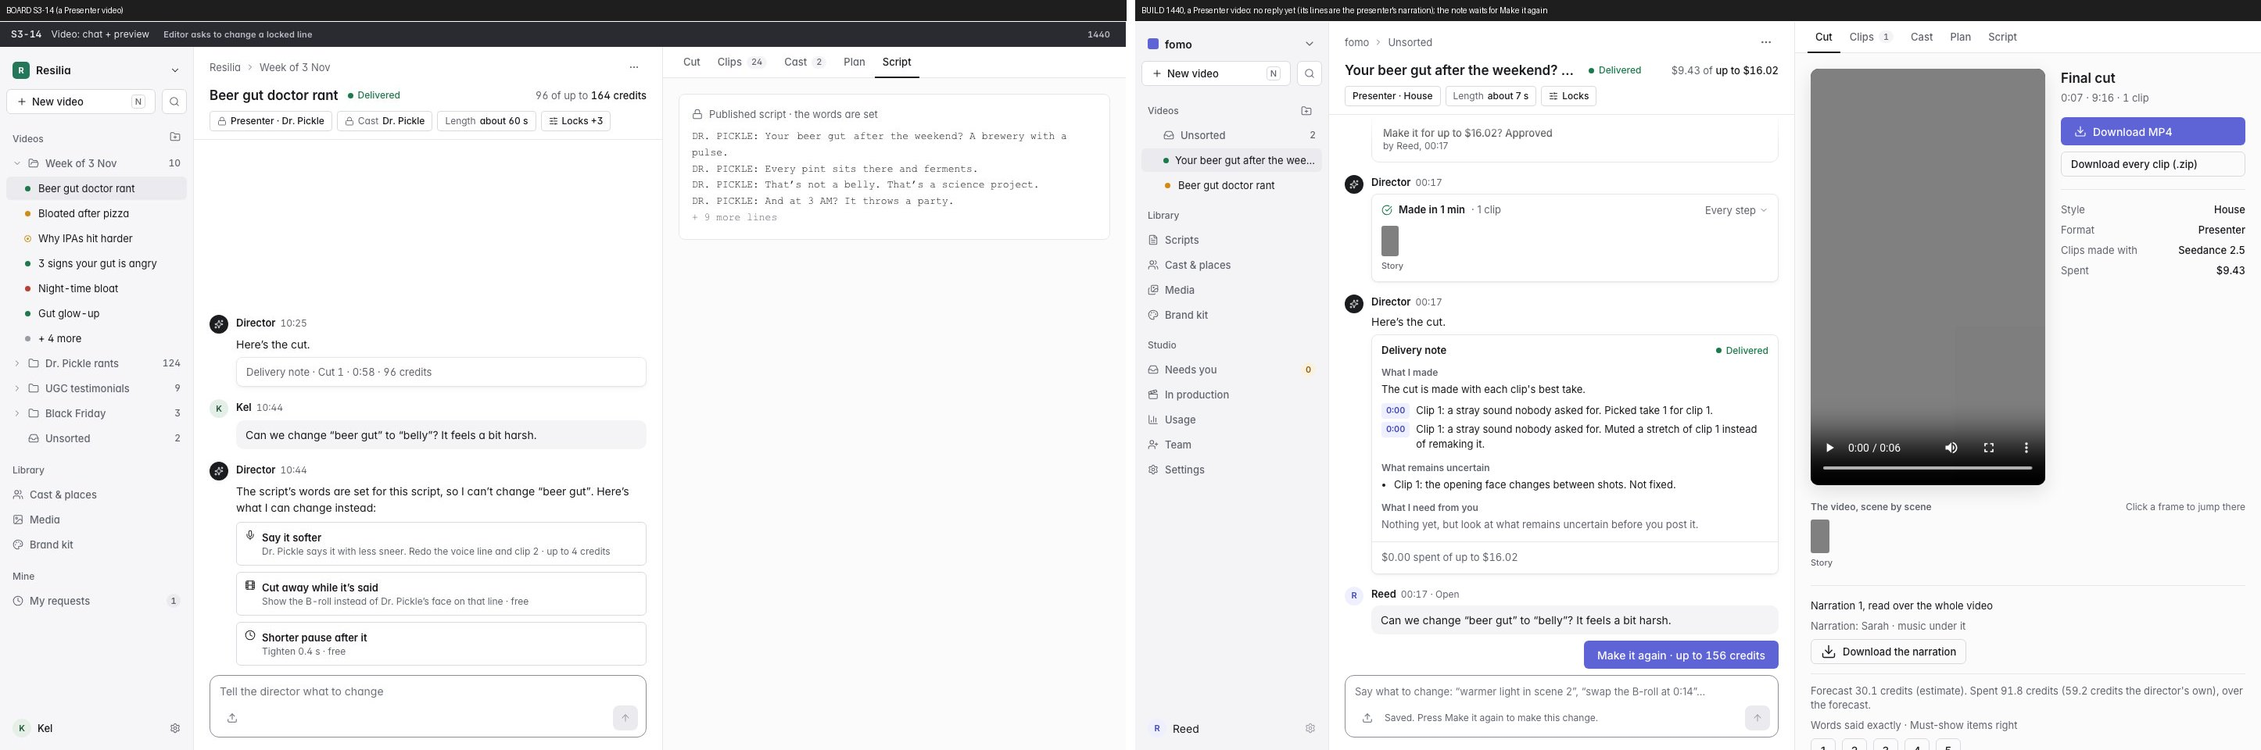
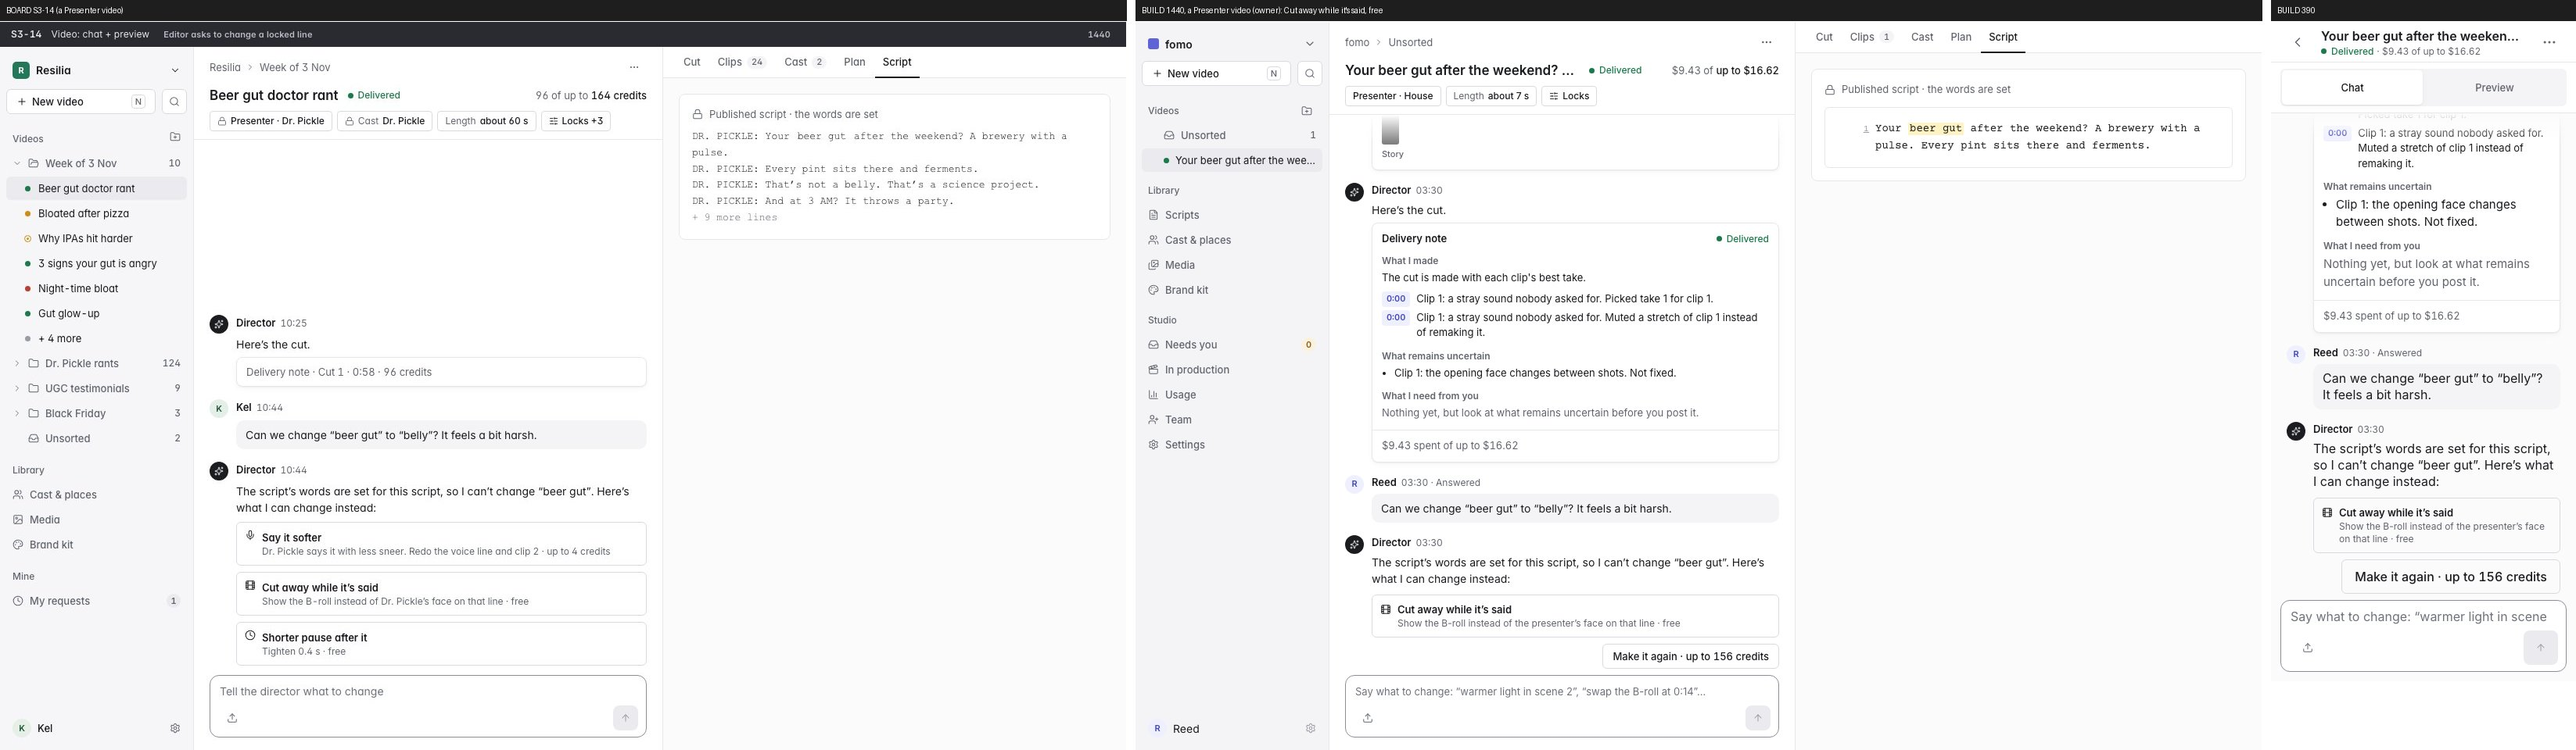
Locked line: Cut away while it's said and Shorter pause after it, free, through the cut editor (S3-14)
The two free choices board S3-14 draws, through #1299's own edits, offered only where they go
through (tried and taken back first):
- "Cut away while it's said": in a video with a presenter over the B-roll, the presenter is
  hidden over the line that says the words, so the B-roll shows.
- "Shorter pause after it" ("Tighten N s"): in a dialogue video, the clip that says them is
  trimmed to just after its line's last word. A narration's or song's pauses are in its audio.
A press makes the edit (the person's, with Undo in the cut editor), worked out again from where
the words are said now, then the next cut ("Done. Making Cut N with it."). Free, kept on the card.

QA notes on #1361: only tone words after a word change mark a note answered (picture and sound
verdicts stay for the director); a gone take's card says only that; a choice pressed again
gives its real reason.

diff --git a/web/src/videos/videopage.test.tsx b/web/src/videos/videopage.test.tsx
@@ -860,3 +860,14 @@ test("S3-14: a take nobody watched offers its free one-click press: use it and m
   await userEvent.click(await screen.findByRole("button", { name: "Use take 3 and make the cut · free" }));
   await vi.waitFor(() => expect(calls.find((c) => c.key === "POST /asks/12/answer")?.body).toEqual({ how: "instead", choice: "A", option: "use" }));
 });
+
+test("S3-14 on a Presenter video: Cut away while it's said is free, and its press makes it", async () => {
+  setViewport(1440);
+  const away = { key: "A", title: "Cut away while it’s said", why: "Show the B-roll instead of Dr. Pickle’s face on that line", do: "cut_away", price: null, made: "", said: "", cannot: "", then: "" };
+  const calls = server(editor, null, run({ status: "delivered", thread: [item("a12", "move", "Director", "…", null, later, { kind: "ask", ask_id: 12 })] }), { ...cards(instead({ choices: [away] })), "POST /asks/12/answer": [200, instead({ choices: [{ ...away, made: "done", said: "Done. Making Cut 2 with it." }], can: [] })] });
+  renderApp("/b/1/videos/50");
+  const button = await screen.findByRole("button", { name: /^Cut away while it’s said/ });
+  expect(button).toHaveTextContent("Show the B-roll instead of Dr. Pickle’s face on that line · free");
+  await userEvent.click(button);
+  await vi.waitFor(() => expect(calls.find((c) => c.key === "POST /asks/12/answer")?.body).toEqual({ how: "instead", choice: "A" }));
+});

diff --git a/server/app/locked_line.py b/server/app/locked_line.py
@@ -45,9 +45,15 @@ ASKS = (
 POLITE = re.compile(
     r"^(?:(?:can|could|would|will)\s+(?:we|you|i|it\s+be)\b|please\b|maybe\b)\s*", re.I
 )
-REASON = re.compile(  # a bare verdict on those words: "It feels a bit harsh."
+TONE = (
+    "harsh|rude|mean|cringe|cringey|cringy|off|wrong|much|crude|blunt|aggressive|offensive|"
+    "crass|cheesy|insulting|negative|judgy|judgmental|preachy|strong|sharp|cold|weird|"
+    "awkward|snarky|condescending|gross|edgy|unkind|pushy|salesy|forced|cheap"
+)
+REASON = re.compile(  # a bare verdict on the words' tone: "It feels a bit harsh." (never the
+    # picture or the sound: "It's too dark." stays for the director)
     r"^(?:it|that|this)(?:['’]s|\s+(?:is|feels|sounds|reads|seems|comes\s+across))"
-    r"(?:\s+(?:a\s+bit|a\s+little|too|so|quite|kind\s+of|really|very))?\s+[a-z-]+$",
+    rf"(?:\s+(?:a\s+bit|a\s+little|too|so|quite|kind\s+of|really|very))?\s+(?:{TONE})$",
     re.I,
 )
 
@@ -100,7 +106,8 @@ def offer(db: Session, user: User, project: Project, text: str) -> tuple[Ask, bo
         return None
     words, only = found
     shot = _said_in(db, project, words)
-    choices = [c for c in (_softer(db, project, shot),) if c]
+    choices = [c for c in (_softer(db, project, shot), _cut_away(db, user, project, words),
+                           _pause(db, user, project, words)) if c]  # fmt: skip
     if not choices:
         return None
     ask = Ask(workspace_id=project.workspace_id, project_id=project.id, kind=KIND,
@@ -142,6 +149,110 @@ def _softer(db: Session, project: Project, shot: dict | None) -> dict | None:
             "do": "softer", "clip": shot["clip"]}  # fmt: skip
 
 
+# --- In the cut (#1299's edits, free): where the words are said, and what can change there ----
+
+
+class _DryRun(Exception):
+    """Raised inside a savepoint to take back an edit tried only to see that it goes through."""
+
+
+def _goes(db: Session, user: User, project: Project, kind: str, asked: dict) -> bool:
+    """Whether this edit to the cut goes through now (every check the editor's own has: no
+    spoken word cut, a piece no shorter than its least), tried and taken back."""
+    from app import cut, cut_edits
+
+    try:
+        with db.begin_nested():
+            cut_edits.add(db, user, project, kind, asked)
+            raise _DryRun
+    except _DryRun:
+        return True
+    except cut.Refused:
+        return False
+
+
+def _spoken(tl: dict, words: str) -> tuple[float, float, int] | None:
+    """Where the cut says these words: (start, end, the index of their last word), or None."""
+    want = re.findall(r"[a-z0-9']+", _plain(words))
+    heard = [re.sub(r"[^a-z0-9']", "", _plain(w["word"])) for w in tl["words"]]
+    for i in range(len(heard) - len(want) + 1):
+        if want and heard[i : i + len(want)] == want:
+            j = i + len(want) - 1
+            return tl["words"][i]["start"], tl["words"][j]["end"], j
+    return None
+
+
+def _cut_away(db: Session, user: User, project: Project, words: str) -> dict | None:
+    """ "Cut away while it's said": the presenter hidden over the line that says the words, so
+    the B-roll under it shows (free). Only in a video with a presenter laid over the B-roll
+    (a UGC talker is in its own clips: they can't be swapped for B-roll)."""
+    from app import cut
+
+    span = _away_span(db, project, words)
+    if span is None or not _goes(
+        db, user, project, "presenter", {"start": span[0], "end": span[1], "hidden": True}
+    ):
+        return None
+    tl, _ = cut.timeline(db, project)
+    name = tl["presenter"]["name"]
+    name = name[0].lower() + name[1:] if name.startswith("The ") else name  # "the presenter"
+    return {
+        "title": "Cut away while it’s said",
+        "why": f"Show the B-roll instead of {name}’s face on that line",
+        "do": "cut_away",
+    }
+
+
+def _away_span(db: Session, project: Project, words: str) -> tuple[float, float] | None:
+    """The line that says the words, in cut seconds (at least a piece's least)."""
+    from app import cut
+
+    if cut.newest(db, project) is None:
+        return None
+    tl, _ = cut.timeline(db, project)
+    said = _spoken(tl, words) if tl["presenter"] else None
+    if said is None:
+        return None
+    a, b, _ = said
+    line = next(((s, e) for s, e in tl.get("lines") or [] if s <= a < e), None)
+    a, b = line if line else (a, b)
+    return round(a, 2), round(max(b, a + cut.MIN), 2)
+
+
+def _pause(db: Session, user: User, project: Project, words: str) -> dict | None:
+    """ "Shorter pause after it": in a dialogue video, the clip that says these words (its
+    line) trimmed to just after its last spoken word ("Tighten 0.4 s", free). A narration's or
+    a song's own pauses are in its audio, so they can't be tightened here."""
+    edit = _pause_edit(db, project, words)
+    if edit is None or not _goes(db, user, project, "trim", edit[0]):
+        return None
+    return {"title": "Shorter pause after it", "why": f"Tighten {edit[1]:g} s", "do": "pause"}
+
+
+PAUSE = 0.2  # seconds: a pause shorter than this after the words is left as it is
+
+
+def _pause_edit(db: Session, project: Project, words: str) -> tuple[dict, float] | None:
+    """The trim that tightens the pause after the words, and by how much; None if none."""
+    from app import cut
+
+    if cut.newest(db, project) is None:
+        return None
+    tl, _ = cut.timeline(db, project)
+    said = _spoken(tl, words) if tl["mode"] == "takes" else None
+    if said is None:
+        return None
+    _, end, _ = said
+    piece = next((p for p in tl["pieces"] if p["start"] <= end <= p["end"]), None)
+    if piece is None:
+        return None
+    end = max(w["end"] for w in tl["words"] if piece["start"] <= w["start"] < piece["end"])
+    gap = round(piece["end"] - end - cut.TAIL, 1)  # after its line: its last spoken word
+    if gap < PAUSE:
+        return None
+    return {"piece": piece["id"], "end": round(end + cut.TAIL, 2)}, gap
+
+
 def _voiced(db: Session, project: Project, clip: str) -> bool:
     """The line is said outside the clip's take: a song or narrated video (a presenter's
     narration too), or a UGC talker's clip."""
@@ -178,6 +289,10 @@ def cannot(db: Session, project: Project, choice: dict) -> str:
         if row.picked_take_id is None or _voiced(db, project, row.clip_id):
             return f"Clip {n} has no take of its own in the cut now."
         return ""
+    if choice.get("do") in ("cut_away", "pause"):
+        from app import cut
+
+        return "" if cut.newest(db, project) is not None else "There's no cut yet."
     return "This can't be made here."
 
 
@@ -189,6 +304,8 @@ def price(db: Session, project: Project, choice: dict) -> Decimal | None:
     if choice.get("do") == "softer":
         row = _row(db, project, choice.get("clip") or "")
         return take_credits(db, project, row) if row is not None else None
+    if choice.get("do") in ("cut_away", "pause"):
+        return Decimal(0)  # an edit and the cut made again: free
     return None
 
 
@@ -204,7 +321,7 @@ def made(db: Session, ask: Ask, key: str) -> tuple[str, str, int | None]:
     if "outcome" in mine:
         use = mine.get("use")
         if use and _gone(db, ask, use):  # its take or clip went since (a new plan): no press
-            return "kept", f"{mine['outcome']} {GONE}", None
+            return "kept", GONE, None
         return ("done" if mine.get("cut") else "kept"), mine["outcome"], use
     job = db.get(Job, mine.get("job") or 0)
     if job is None or job.status in (JobStatus.failed, JobStatus.cancelled):
@@ -282,17 +399,19 @@ def choose(db: Session, user: User, ask: Ask, key: str, storage, option=None) ->
     state, said, use = made(db, ask, key)
     if option == "use":
         if use is None:
-            raise HTTPException(409, said if GONE in said else "There's no take to use here.")
+            raise HTTPException(409, GONE if said == GONE else "There's no take to use here.")
         from app import director
 
         if director.active(db, project):
             raise HTTPException(409, RUNNING)
         said, cut = _cut(db, project, db.get(ClipTake, use), storage, user, chosen=True)
         return _outcome(db, ask, key, said, cut=cut)
-    if state:
+    if state in ("held", "making", "watching"):
         raise HTTPException(409, "That's already being made.")
     if why := cannot(db, project, found):
         raise HTTPException(409, why)
+    if state:  # made already (done, or kept with what happened): say that, not "being made"
+        raise HTTPException(409, GONE if said == GONE else "That's made already.")
     done = DOES[found["do"]](db, user, project, ask, found, storage)
     from app.db import utcnow
 
@@ -317,7 +436,46 @@ def _say_softer(db: Session, user: User, project: Project, ask: Ask, choice: dic
     return {"job": job.id}
 
 
-DOES = {"softer": _say_softer}  # what each kind of choice does when pressed
+def _edit_the_cut(db: Session, user: User, project: Project, ask: Ask, choice: dict,
+                  storage) -> dict:  # fmt: skip
+    """Cut away, or a shorter pause: the edit (free, the person's, with Undo in the cut editor),
+    worked out again from where the words are said now, then the cut made again."""
+    from app import cut, cut_edits
+
+    if choice["do"] == "cut_away":
+        span = _away_span(db, project, ask.subject)
+        kind, asked = "presenter", (span and {"start": span[0], "end": span[1], "hidden": True})
+    else:
+        edit = _pause_edit(db, project, ask.subject)
+        kind, asked = "trim", (edit and edit[0])
+    if not asked:
+        raise HTTPException(409, "The cut doesn't say those words where it did: make the cut "
+                            "again first, or change it in the cut editor.")  # fmt: skip
+    try:
+        row = cut_edits.add(db, user, project, kind, asked)
+    except cut.Refused as no:
+        db.rollback()
+        raise HTTPException(409, str(no)) from no
+    db.commit()
+    said, made = _make_cut(db, project, user, storage)
+    return {"edit": row.id, "outcome": f"Done. {said}", "cut": made}
+
+
+def _make_cut(db: Session, project: Project, user: User, storage) -> tuple[str, bool]:
+    """The next cut, free (cut.make's own route); or plainly why not."""
+    from app.routes import cut
+
+    request = SimpleNamespace(app=SimpleNamespace(state=SimpleNamespace(storage=storage)))
+    try:
+        made = cut.make(project_id=project.id, request=request, user=user, db=db)
+    except HTTPException as no:
+        db.rollback()
+        return (f"The cut wasn’t made again: {no.detail} Make the cut from the Cut tab once "
+                "that’s done.", False)  # fmt: skip
+    return f"Making Cut {made.making.number if made.making else made.number} with it.", True
+
+
+DOES = {"softer": _say_softer, "cut_away": _edit_the_cut, "pause": _edit_the_cut}  # its press
 
 
 def after(db: Session, job: Job, storage) -> None:

diff --git a/server/tests/test_locked_line.py b/server/tests/test_locked_line.py
@@ -57,7 +57,8 @@ def test_a_note_to_change_the_scripts_words_is_answered_at_once(app, db, owner, 
     assert card["question"] == ("The script’s words are set for this script, so I can’t change "
                                 "“bought the dip”. Here’s what I can change instead:")  # fmt: skip
     assert card["state"] == "offered" and card["can"] == ["instead"]
-    (softer,) = card["choices"]
+    softer, pause = card["choices"]  # as drawn: Say it softer, then what the cut can change
+    assert pause["do"] == "pause"  # (no presenter here to cut away from)
     assert (softer["title"], softer["do"], softer["made"]) == ("Say it softer", "softer", "")
     assert softer["why"] == "Nate says it more softly. Redo the voice line and clip 1"
     row = db.query(ProjectClip).filter_by(project_id=pid, clip_id="c1").one()
@@ -89,7 +90,7 @@ def test_saying_it_softer_makes_a_take_and_once_its_watch_is_clean_the_cut_again
     was = (cut.id, list(cut.take_ids))
     pressed = _press(editor, db, pid)
     choice = pressed["choices"][0]
-    assert choice["made"] == "making" and pressed["can"] == []
+    assert choice["made"] == "making" and pressed["can"] == ["instead"]  # the pause stays
     job = db.query(Job).filter(Job.kind == "video").order_by(Job.id.desc()).first()
     assert job.input[locked_line.FOR] == [card["id"], "A"]
     assert job.credits <= choice["price"]["credits"]  # never past the "up to" it showed
@@ -214,6 +215,7 @@ def test_nothing_is_offered_where_the_clip_doesnt_carry_the_voice(app, db, owner
 
     pid = _delivered(app, db, owner, editor)
     monkeypatch.setattr(director_song, "kind", lambda db, project: "narrated")
+    monkeypatch.setattr(locked_line, "_goes", lambda *a: False)  # nor anything in the cut
     out = editor.post(f"/projects/{pid}/director/messages", json={"text": ASK}).json()
     assert out["unread"] == 1  # it waits for the director, as any note does
     assert not db.query(Ask).filter_by(project_id=pid, kind="instead").count()
@@ -414,10 +416,12 @@ def test_a_take_that_went_since_is_never_offered_or_used(app, db, owner, editor,
     assert editor.get(f"/projects/{pid}/asks").status_code == 200
     card = _card(editor, pid)
     c = card["choices"][0]
-    assert c["then"] == "" and locked_line.GONE in c["said"]
+    assert c["then"] == "" and c["said"] == locked_line.GONE  # its text, not added to
     no = editor.post(f"/asks/{card['id']}/answer",
                      json={"how": "instead", "choice": "A", "option": "use"})  # fmt: skip
-    assert no.status_code == 409 and no.json()["detail"].endswith(locked_line.GONE)
+    assert (no.status_code, no.json()["detail"]) == (409, locked_line.GONE)
+    again = editor.post(f"/asks/{card['id']}/answer", json={"how": "instead", "choice": "A"})
+    assert again.json()["detail"] == "Clip 1 isn't in this video any more."  # its real reason
     bad = editor.post(f"/asks/{card['id']}/answer",
                       json={"how": "instead", "choice": "A", "option": "other"})  # fmt: skip
     assert bad.status_code == 422
@@ -436,3 +440,104 @@ def test_the_cut_isnt_made_over_a_pick_someone_made_since(app, db, owner, editor
     said, cut = locked_line._cut(db, db.get(Project, pid), take, app.state.storage)
     assert not cut and said == ("Made and watched, but clip 1 now uses another take, so the cut "
                                 "stays as it was.")  # fmt: skip
+
+
+# --- In the cut (#1299's edits, free): cut away while it's said, a shorter pause after it ----
+
+
+def _presenter(app, db, owner, monkeypatch) -> int:
+    """A delivered Presenter video (board S3-14's own format), made by the owner."""
+    from app.models.freestyles import Freestyle
+    from tests.test_freestyle_dialogue import _run as _fs_run
+    from tests.test_freestyle_song import NARRATION, _sent
+
+    monkeypatch.setattr("app.director_song._on", lambda db, draft: True)
+    monkeypatch.setattr(app.state.settings, "kie_suno", True)
+    fs = _sent(owner, "presenter", NARRATION)
+    _fs_run(app, db, ticks=160)
+    pid = db.get(Freestyle, fs["id"]).project_id
+    assert owner.get(f"/projects/{pid}/director").json()["status"] == "delivered"
+    return pid
+
+
+ON_A_PRESENTER = "Can we change “the wait” to “the pause”? It feels a bit harsh."
+
+
+def test_on_a_presenter_video_it_offers_cutting_away_free_and_makes_the_cut(
+    app, db, owner, monkeypatch
+):
+    from app import cut
+    from app.models.clips import CutEdit
+
+    pid = _presenter(app, db, owner, monkeypatch)
+    out = owner.post(f"/projects/{pid}/director/messages", json={"text": ON_A_PRESENTER}).json()
+    assert out["unread"] == 0
+    card = _card(owner, pid)
+    (away,) = card["choices"]  # no Say it softer: the presenter's narration carries the voice
+    assert (away["title"], away["do"], away["price"]) == ("Cut away while it’s said", "cut_away",
+                                                          None)  # free  # fmt: skip
+    assert away["why"].startswith("Show the B-roll instead of ") and away["why"].endswith(
+        "’s face on that line")  # fmt: skip
+    jobs = db.query(Job).filter(Job.kind != cut.STEP).count()
+    pressed = owner.post(f"/asks/{card['id']}/answer", json={"how": "instead", "choice": "A"})
+    assert pressed.status_code == 200, pressed.text
+    done = pressed.json()["choices"][0]
+    assert done["made"] == "done" and done["said"].startswith("Done. Making Cut ")
+    assert done["said"].endswith(" with it.")
+    edit = db.query(CutEdit).filter_by(project_id=pid).one()
+    assert (edit.kind, edit.data["hidden"], edit.director) == ("presenter", True, False)
+    tl, _ = cut.timeline(db, db.get(Project, pid))
+    said = locked_line._spoken(tl, "the wait")
+    assert edit.data["start"] <= said[0] and said[1] <= edit.data["end"]  # over that line
+    assert db.query(Job).filter(Job.kind != cut.STEP).count() == jobs  # nothing paid
+    assert cut.making(db, db.get(Project, pid)) is not None  # the next cut is being made
+    again = owner.post(f"/asks/{card['id']}/answer", json={"how": "instead", "choice": "A"})
+    assert (again.status_code, again.json()["detail"]) == (409, "That's made already.")
+
+
+def test_a_shorter_pause_after_it_trims_the_clip_to_its_last_word_free(app, db, owner, editor):
+    from app import cut
+    from app.models.clips import CutEdit
+
+    pid = _delivered(app, db, owner, editor)
+    editor.post(f"/projects/{pid}/director/messages", json={"text": ASK})
+    card = _card(editor, pid)
+    pause = next(c for c in card["choices"] if c["do"] == "pause")
+    assert pause["title"] == "Shorter pause after it" and pause["price"] is None
+    gap = float(pause["why"].removeprefix("Tighten ").removesuffix(" s"))
+    assert gap >= locked_line.PAUSE
+    pressed = editor.post(f"/asks/{card['id']}/answer",
+                          json={"how": "instead", "choice": pause["key"]})  # fmt: skip
+    assert pressed.status_code == 200, pressed.text
+    edit = db.query(CutEdit).filter_by(project_id=pid).one()
+    assert edit.kind == "trim"
+    tl, _ = cut.timeline(db, db.get(Project, pid))
+    piece = next(p for p in tl["pieces"] if p["id"] == edit.data["piece"])
+    end = max(w["end"] for w in tl["words"] if piece["start"] <= w["start"] < piece["end"])
+    assert abs(piece["end"] - (end + cut.TAIL)) < 0.05  # just after the last word, none cut
+    softer = next(c for c in _card(editor, pid)["choices"] if c["do"] == "softer")
+    assert softer["made"] == "" and softer["price"]  # the other choices stay pressable
+
+
+def test_a_cut_choice_that_cant_be_made_isnt_offered(app, db, owner, editor, monkeypatch):
+    pid = _delivered(app, db, owner, editor)
+    monkeypatch.setattr(locked_line, "_goes", lambda *a: False)  # the cut editor refuses it
+    editor.post(f"/projects/{pid}/director/messages", json={"text": ASK})
+    assert [c["do"] for c in _card(editor, pid)["choices"]] == ["softer"]
+
+
+def test_only_tone_words_mark_a_note_answered():
+    from tests.test_script_library import SCRIPT
+
+    for other in (
+        "It's too dark.",
+        "This is blurry.",
+        "It's too loud.",
+        "It's too long.",
+        "It is slow.",
+    ):  # picture or sound: the director's (QA on d0c187c8)
+        said = f"Change “bought the dip” to “bought more”. {other}"
+        assert locked_line.asked(said, SCRIPT) == ("bought the dip", False), other
+    for tone in ("It's too harsh.", "It sounds rude.", "That's a bit much.", "It feels off."):
+        said = f"Change “bought the dip” to “bought more”. {tone}"
+        assert locked_line.asked(said, SCRIPT) == ("bought the dip", True), tone
